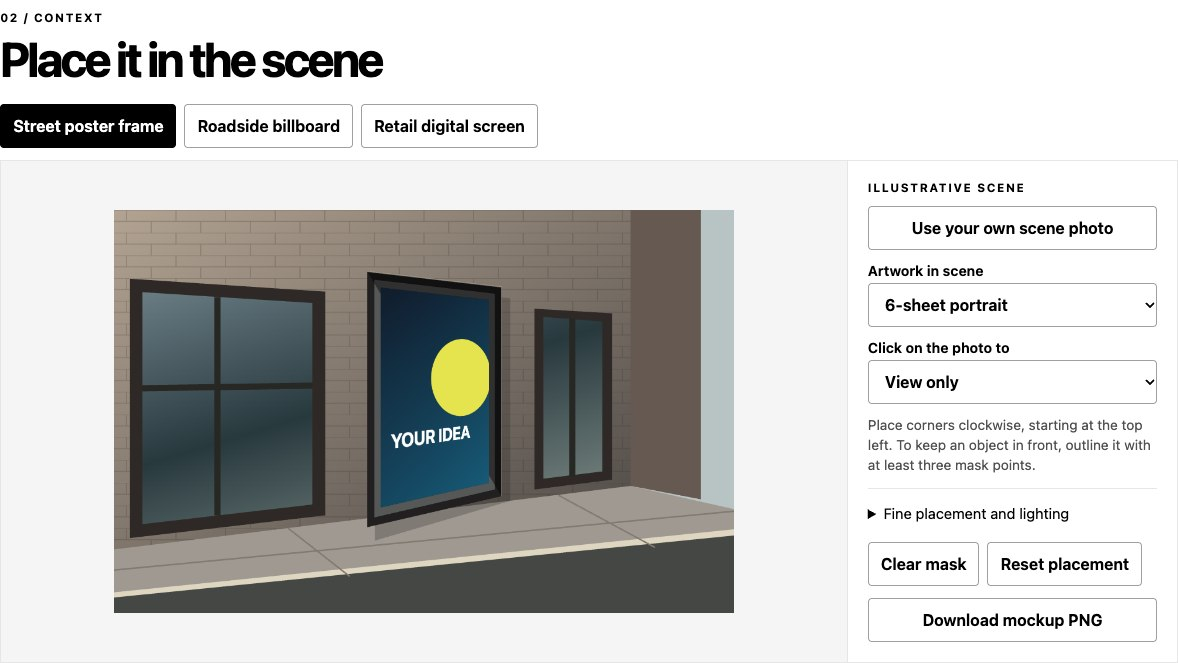
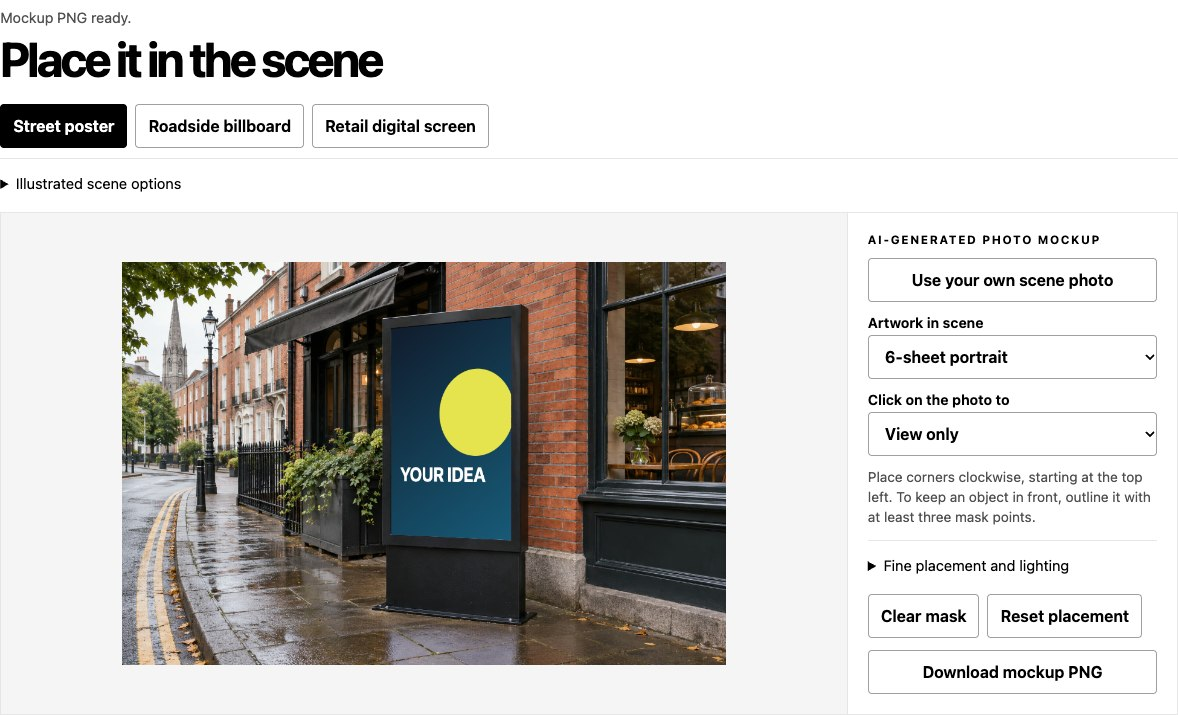
Add three calibrated photographic mockup templates

diff --git a/main.js b/main.js
@@ -1,7 +1,7 @@
 import {formats,defaultLayout} from './src/formats.js';
 import {canvas,drawArt} from './src/art.js';
 import {composite} from './src/perspective.js';
-import {scenePresets,photoQuad,initialScene} from './src/scenes.js';
+import {scenePresets,allPresets,illustrationPresets,photoQuad,initialScene} from './src/scenes.js';
 import {motionAt,recordMotion,videoType} from './src/motion.js';
 import {artwork,campaignZip,deck,download,framesZip,png} from './src/exports.js';
 import {decode,loadImage,projectRecord} from './src/project.js';
@@ -13,7 +13,7 @@ const format=id=>formats.find(f=>f.id===id);
 const options=(el,items)=>el.replaceChildren(...items.map(f=>new Option(f.name,f.id)));
 const fresh=()=>({
   format:'6-sheet', layouts:Object.fromEntries(formats.map(f=>[f.id,{...defaultLayout}])),
-  scene:'street', scenes:Object.fromEntries([...scenePresets,{id:'photo',quad:photoQuad,format:'6-sheet'}]
+  scene:scenePresets[0].id, scenes:Object.fromEntries([...allPresets,{id:'photo',quad:photoQuad,format:'6-sheet'}]
     .map(s=>[s.id,initialScene(s.quad,s.format)])),
   motion:{format:'digital-landscape',duration:6,zoom:1.15,fade:.6},
   files:{},guides:true
@@ -116,7 +116,7 @@ function sync(){
   $('art-name').textContent=state.files.art?.name??'Demo artwork';
   $('logo-name').textContent=state.files.logo?.name??'No logo selected';
   $('photo-name').textContent=state.files.photo?.name??'';
-  $('scene-kind').textContent=state.scene==='photo'?'YOUR UPLOADED PHOTO':'ILLUSTRATIVE SCENE';
+  $('scene-kind').textContent=state.scene==='photo'?'YOUR UPLOADED PHOTO':state.scene.startsWith('photo-')?'AI-GENERATED PHOTO MOCKUP':'ILLUSTRATIVE SCENE';
   $('guides').checked=state.guides;$('scene-format').value=scene().format;$('motion-format').value=state.motion.format;
   $('undo').disabled=!history.length||busy;$('remove-logo').disabled=!assets.logo||busy;
   $('video').disabled=!videoType()||busy;
@@ -130,7 +130,9 @@ function pickers(id,items,key,select) {
   }
 }
 pickers('formats',formats,'format',v=>state.format=v);
-pickers('scenes',[...scenePresets,{id:'photo',name:'Your photo'}],'sceneId',v=>{state.scene=v;$('scene-tool').value='-1';});
+const selectScene=v=>{state.scene=v;$('scene-tool').value='-1';};
+pickers('scenes',[...scenePresets,{id:'photo',name:'Your photo'}],'sceneId',selectScene);
+pickers('illustrations',illustrationPresets,'sceneId',selectScene);
 options($('scene-format'),formats);options($('motion-format'),formats.filter(f=>f.digital));
 for(const [index,name] of ['Top left','Top right','Bottom right','Bottom left'].entries()){
   for(const [axis,label] of ['horizontal','vertical'].entries()){
@@ -157,7 +159,7 @@ $('scene-guides').onclick=e=>{
 };
 $('clear-mask').onclick=()=>change(()=>scene().mask=[]);
 $('reset-placement').onclick=()=>change(()=>{
-  const preset=scenePresets.find(s=>s.id===state.scene);
+  const preset=allPresets.find(s=>s.id===state.scene);
   state.scenes[state.scene]=initialScene(structuredClone(preset?.quad??photoQuad),preset?.format??state.format);
 });
 $('timeline').oninput=()=>{stop();time=Number($('timeline').value);renderMotion();};
@@ -219,7 +221,7 @@ $('zip').onclick=()=>run('Making six PNGs…',async()=>download(await campaignZi
 $('pdf').onclick=()=>run('Building review deck…',async()=>{
   const pages=formats.map(f=>({title:f.name,note:f.w+' x '+f.h+' px artwork preset',render:()=>artwork(f,state.layouts[f.id],assets)}));
   for(const s of [...scenePresets,...(assets.photo?[{id:'photo',name:'Uploaded scene'}]:[])]){
-    pages.push({title:s.name,note:s.id==='photo'?'Uploaded location photo':'Illustrative scene',render:()=>sceneCanvas(s.id,1200)});
+    pages.push({title:s.name,note:s.id==='photo'?'Uploaded location photo':'AI-generated photographic mockup',render:()=>sceneCanvas(s.id,1200)});
   }
   download(await deck(pages),'outdoor-review.pdf');
 },'PDF deck ready.');
@@ -234,12 +236,13 @@ $('frames').onclick=()=>run('Rendering frames…',async()=>{
 },'PNG frames ZIP ready.');
 window.addEventListener('beforeunload',e=>{if(dirty){e.preventDefault();e.returnValue='';}});
 await run('Opening Outdoor Maker…',async()=>{
-  await Promise.all(scenePresets.map(async s=>photos[s.id]=await loadImage(import.meta.env.BASE_URL+'scenes/'+s.id+'.svg')));
+  await Promise.all(allPresets.map(async s=>photos[s.id]=await loadImage(import.meta.env.BASE_URL+'scenes/'+s.file)));
   const saved=await projectRecord('readonly');
   if(saved){
     const loaded={};
     try{for(const [key,file] of Object.entries(saved.files)) loaded[key]=await decode(file);}
     catch(error){Object.values(loaded).forEach(img=>img.close());throw error;}
-    state=saved;assets=loaded;
+    state={...saved,scenes:{...fresh().scenes,...saved.scenes}};assets=loaded;
+    if(illustrationPresets.some(p=>p.id===state.scene)) $('legacy-scenes').open=true;
   }
 },'Ready. Use the demo artwork or upload a campaign image.');

diff --git a/tests/workflow.spec.js b/tests/workflow.spec.js
@@ -24,10 +24,18 @@ async function image(page,selector,color,name,w=800,h=560){
 test('desktop: upload, edit, save and reopen; export PNGs, composite, PDF and motion',async({page},info)=>{
   const errors=[];page.on('pageerror',e=>errors.push(e.message));
   await page.goto('/');await ready(page);
-  if(process.env.OUTDOOR_SCREENSHOTS){
-    await page.locator('section[aria-labelledby="format-title"]').screenshot({path:'docs/screenshots/editor.jpg',type:'jpeg',quality:87});
-    await page.getByRole('heading',{name:'Place it in the scene'}).scrollIntoViewIfNeeded();
-    await page.locator('section[aria-labelledby="scene-title"]').screenshot({path:'docs/screenshots/scene.jpg',type:'jpeg',quality:87});
+  const shot=async(name,label)=>{
+    if(process.env.OUTDOOR_SCREENSHOTS)await page.locator('section[aria-labelledby="'+label+'"]').screenshot({path:'docs/screenshots/'+name+'.jpg',type:'jpeg',quality:87});
+  };
+  await shot('editor','format-title');
+  for(const [name,shotName,id] of [['Street poster','scene','photo-street'],['Roadside billboard','roadside','photo-road'],['Retail digital screen','retail','photo-retail']]){
+    await page.locator('#scenes').getByRole('button',{name,exact:true}).click();
+    await expect(page.locator('#scene-kind')).toHaveText('AI-GENERATED PHOTO MOCKUP');
+    await expect(page.locator('#scene-png')).toBeEnabled();
+    const mock=await download(page,'Download mockup PNG',info);
+    expect(mock.name).toBe(id+'-mockup.png');
+    expect(size(mock.bytes)).toEqual([1536,1024]);
+    await shot(shotName,'scene-title');
   }
   await image(page,'#art-upload','#e22a55','campaign.png');
   await page.getByRole('combobox',{name:'Layout',exact:true}).selectOption('template');

diff --git a/src/scenes.js b/src/scenes.js
@@ -1,8 +1,16 @@
 const asQuad=points=>points.map(([x,y])=>[x/1200,y/780]);
-export const scenePresets=[
+export const illustrationPresets=[
   {id:'street',name:'Street poster frame',format:'6-sheet',quad:asQuad([[516,150],[726,174],[726,528],[516,576]])},
   {id:'road',name:'Roadside billboard',format:'48-sheet',quad:asQuad([[313,149],[917,181],[917,350],[313,384]])},
   {id:'retail',name:'Retail digital screen',format:'digital-portrait',quad:asQuad([[509,161],[701,194],[701,587],[509,630]])},
 ];
+// Calibrated against the inner display edges in the 1536 × 1024 backgrounds.
+const photoPoints=points=>points.map(([x,y])=>[x/1536,y/1024]);
+export const scenePresets=[
+  {id:'photo-street',name:'Street poster',format:'6-sheet',quad:photoPoints([[685,170],[990,141],[990,707],[685,693]])},
+  {id:'photo-road',name:'Roadside billboard',format:'48-sheet',quad:photoPoints([[191,146],[988,238],[990,570],[193,582]])},
+  {id:'photo-retail',name:'Retail digital screen',format:'digital-portrait',quad:photoPoints([[672,139],[943,111],[944,654],[673,643]])},
+].map(p=>({...p,file:p.id+'.jpg'}));
+export const allPresets=[...scenePresets,...illustrationPresets.map(p=>({...p,file:p.id+'.svg'}))];
 export const photoQuad=[[.22,.22],[.78,.22],[.78,.78],[.22,.78]];
 export const initialScene=(quad,format)=>({quad:quad.map(p=>[...p]),mask:[],format,opacity:1,brightness:1});

diff --git a/index.html b/index.html
@@ -45,7 +45,8 @@
 </div></div></section>
 <section aria-labelledby="scene-title">
 <div class="section-head"><p class="eyebrow">02 / CONTEXT</p><h2 id="scene-title">Place it in the scene</h2></div>
-<div class="choices" id="scenes" aria-label="Scene presets"></div>
+<div class="choices" id="scenes" aria-label="Photographic scene templates"></div>
+<details id="legacy-scenes"><summary>Illustrated scene options</summary><div class="choices" id="illustrations" aria-label="Illustrated scene presets"></div></details>
 <div class="editor">
 <div class="preview scene"><div class="scene-surface"><canvas id="scene-preview" aria-label="Scene composite" role="img"></canvas><canvas id="scene-guides" aria-label="Click to place a corner or add a mask point" role="img"></canvas></div></div>
 <div class="controls">

diff --git a/style.css b/style.css
@@ -47,3 +47,5 @@ select,textarea{width:100%;min-width:0;font-size:16px}
 footer{padding:0 0 32px;font-size:.72rem;letter-spacing:.13em;font-weight:700}
 @media(max-width:760px){.editor{grid-template-columns:1fr}.controls{border-left:0;border-top:1px solid var(--line)}.preview{min-height:180px}canvas{max-height:46vh}.toolbar span{flex:1 0 40%}}
 @media(prefers-reduced-motion:reduce){.portal{transition:none}}
+
+#legacy-scenes{margin-top:10px}

diff --git a/README.md b/README.md
@@ -16,7 +16,7 @@ Open the local URL printed by Vite. No model account or API keys are required. T
 ## Five-minute demo
 
 1. Upload a JPEG, PNG or WebP key visual, or start with the built-in demo. Pick one of the six formats. **Fit** shows the whole artwork at default zoom. **Crop** fills the frame. **Template** places your own headline and logo inside adjustable safe zones. Layout changes apply to the selected format.
-2. Try the street poster, roadside billboard and retail screen. These are illustrations. For a real location, upload a photo, select the artwork format, then assign the four corners clockwise. For an object in front of the artwork, trace a single mask polygon. Use the sliders to fine-tune corners, opacity and brightness.
+2. Try the street poster, roadside billboard and retail screen. The default templates are AI-generated photographic mockups of fictional locations. The original drawings are under **Illustrated scene options**. For a real location, upload a photo, select the artwork format, then assign the four corners clockwise. For an object in front of the artwork, trace a single mask polygon. Use the sliders to fine-tune corners, opacity and brightness.
 3. Pick a digital format, set the duration and scrub the timeline. Play it, then download a video or the numbered PNG sequence.
 4. Download a single PNG, the artwork ZIP or the PDF deck. Save on this device before reloading. Undo is available for the last 16 edits in the current session.
 

diff --git a/docs/scene-templates.md b/docs/scene-templates.md
@@ -1,0 +1,5 @@
+# Photographic mockup templates
+
+Added 7 November 2026. The street poster, roadside billboard and retail screen are synthetic location photographs generated with OpenAI image generation for this project. They depict fictional placements. Each was generated at 1536 × 1024 with a blank chroma surface, which was keyed to a neutral backing for the shipped JPEG. The four inner display corners were calibrated individually.
+
+The built-in scenes are safe for concept review as illustrations of context; they do not represent booked or verified media locations. Upload your own photograph to review an actual site. The original drawn presets remain selectable, and saved projects keep their prior corner placements. The review PDF uses the three photographic presets plus the uploaded scene if present.
